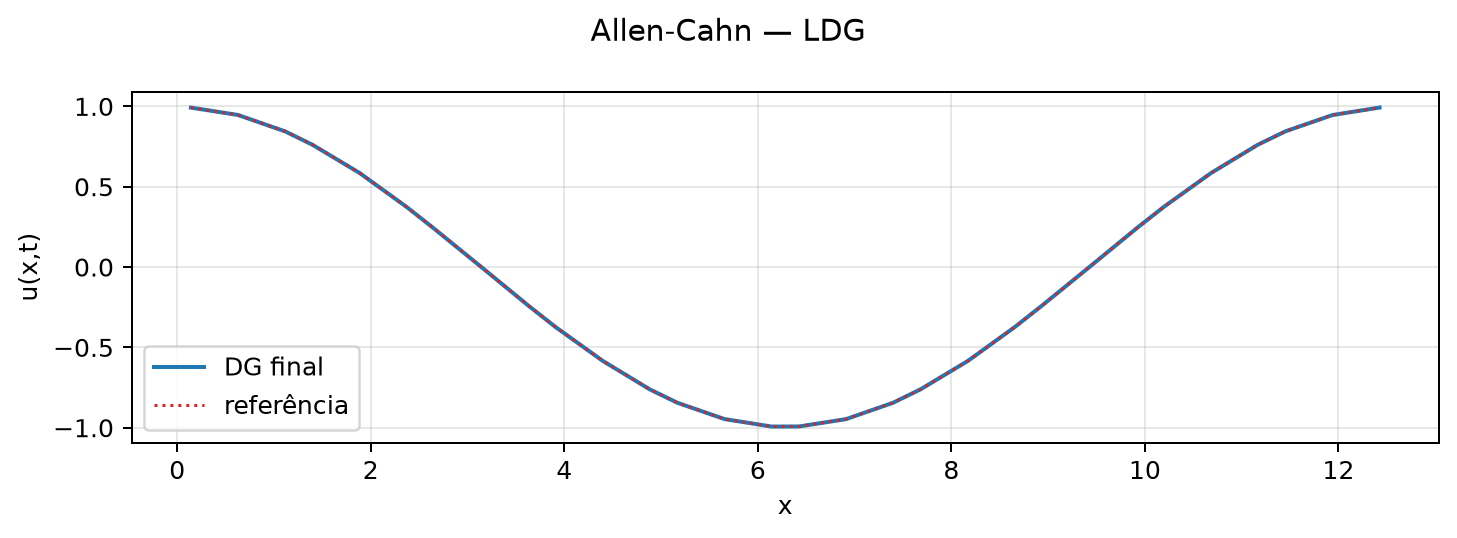
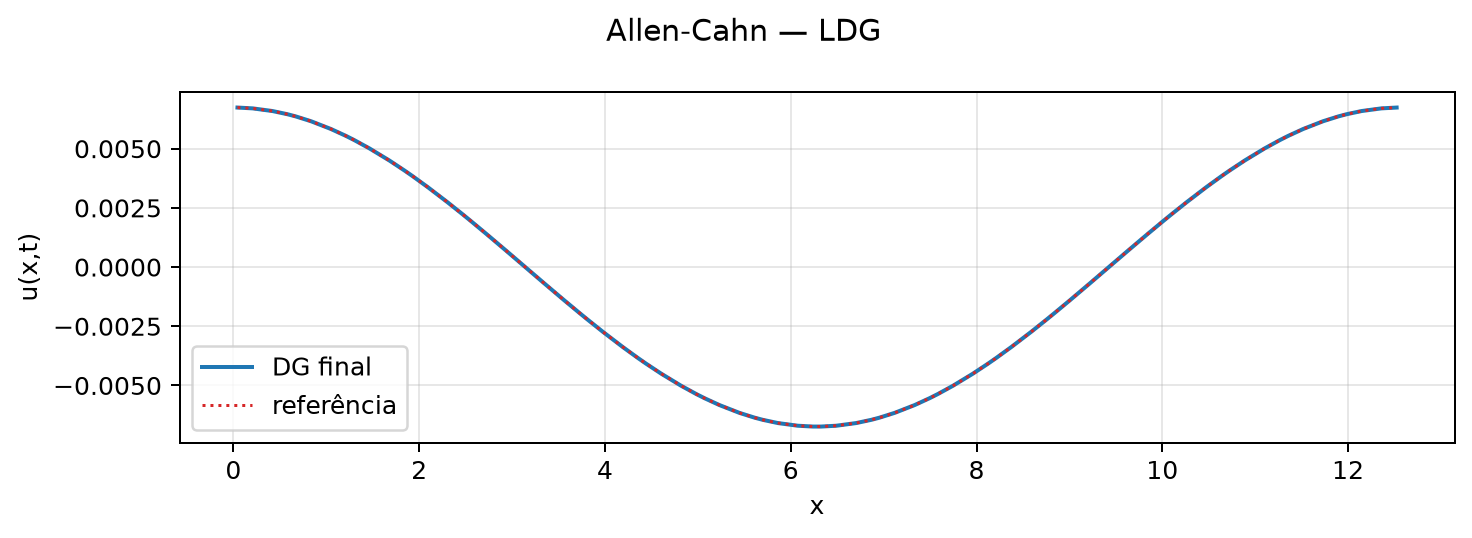
Add allen_cahn e cahn_hillard

diff --git a/examples/alberto_replicas/cahn_hilliard/run.py b/examples/alberto_replicas/cahn_hilliard/run.py
@@ -1,9 +1,8 @@
-"""Cahn--Hilliard replica with the split LDG operator used in the toolkit."""
+"""Two-field Cahn--Hilliard test following Alberto's active DG script."""
 
 from __future__ import annotations
 
 import argparse
-import math
 import sys
 from pathlib import Path
 
@@ -14,13 +13,11 @@ if str(ROOT) not in sys.path:
     sys.path.insert(0, str(ROOT))
 
 from dg1d_toolkit.dg1d_core import DGSpace1D
-from dg1d_toolkit.dg1d_subcell import diffusion_rhs
 from examples.alberto_replicas.common import (
     StateHistory,
     add_runtime_options,
     apply_runtime_overrides,
     integrate,
-    padded,
     plot_evolution,
     plot_profiles,
     print_summary,
@@ -29,16 +26,57 @@ from examples.alberto_replicas.common import (
 )
 
 
+def _padded_source_state(space, modal):
+    """Use Alberto's one-sided Neumann ghost convention."""
+    padded = np.zeros((space.Nldof, space.K + 2), dtype=float)
+    padded[:, 1:-1] = modal
+    right_trace = np.dot(space.Frk[0, :], modal[:, -1])
+    padded[0, -1] = right_trace
+    return padded
+
+
+def _find_initial_file(name, explicit):
+    """Use an explicit path or find Alberto's file in common locations."""
+    if explicit is not None:
+        return explicit
+    candidates = (
+        Path.cwd() / name,
+        Path(__file__).resolve().parent / name,
+    )
+    return next((candidate for candidate in candidates if candidate.exists()), None)
+
+
+def _load_or_build_initial(space, path, fallback):
+    """Load one of Alberto's IC files or use a reproducible fallback."""
+    if path is not None:
+        raw = np.asarray(np.load(path), dtype=float)
+        if raw.size != space.K * space.nip:
+            raise ValueError(
+                f"{path} deve conter {space.K * space.nip} valores "
+                f"(K={space.K}, nip={space.nip})."
+            )
+        physical = raw.reshape(space.K, space.nip).T
+    else:
+        physical = fallback(space.xc)
+    return project(space, physical)
+
+
 def main(argv=None):
     parser = argparse.ArgumentParser(description=__doc__)
-    parser.add_argument("--diffusion", choices=("ldg", "br2"), default="ldg")
+    parser.add_argument(
+        "--diffusion", choices=("ldg",), default="ldg",
+        help="o script ativo do Alberto usa a formulação LDG acoplada",
+    )
+    parser.add_argument("--initial-u", type=Path, default=None,
+                        help="arquivo icr_u.npy do caso original")
+    parser.add_argument("--initial-v", type=Path, default=None,
+                        help="arquivo icr_v.npy do caso original")
     parser.add_argument("--quick", action="store_true", help="malha e tempo curtos")
     parser.add_argument("--output", type=Path, default=None)
     add_runtime_options(parser)
     args = parser.parse_args(argv)
 
-    # Alberto's executed loop uses Nsteps=99000 and dt=2.2e-6, hence
-    # t_final=0.2178; tb=[0,0.05] is not the actual loop duration.
+    # Effective production loop in Cahn-Hilliard-1D-Modal-DG.py.
     K, N, t_end, dt, source_steps = (
         (10, 1, 5.0e-4, 1.0e-4, 5)
         if args.quick else (40, 1, 99000 * 2.2e-6, 2.2e-6, 99000)
@@ -46,58 +84,163 @@ def main(argv=None):
     K, N, t_end, dt, steps = apply_runtime_overrides(
         args, K, N, t_end, dt, source_steps
     )
-    gamma = (0.1**2) / 6.0
-    mobility = 1.0
-    space = DGSpace1D(K, N, 0.0, 1.0, quad_type="GL", P=2 * N, nlP=4 * N)
-    # Deterministic analogue of Alberto's fluctuating IC; it avoids the
-    # external icr_u.npy dependency while retaining the phase-field character.
-    phi0 = 0.5 + 0.05 * np.cos(2.0 * math.pi * space.xc) + 0.005 * np.sin(6.0 * math.pi * space.xc)
-    initial = project(space, phi0)
-    unit = np.ones((space.nip, space.K + 2))
-    faces = np.ones((2, space.K + 2))
 
-    def laplace(field):
-        if args.diffusion == "ldg":
-            return diffusion_rhs(space, padded(space, field, periodic=True), unit, faces,
-                                 method="ldg", periodic=True)
-        return diffusion_rhs(space, padded(space, field, periodic=True), method="br2",
-                             coefficient=1.0, eta=2.0, periodic=True)
+    # Parameters of Alberto's active fluctuating Cahn--Hilliard case.
+    theta = 0.1
+    alpha_fe = 3.0
+    beta_fe = -1.0
+    epsilon = 0.1
+    gamma = (1.0 / 6.0) * epsilon**2
+    rho = 0.08
+    space = DGSpace1D(K, N, 0.0, 1.0, quad_type="GL", P=2 * N, nlP=4 * N)
+
+    initial_u_path = _find_initial_file("icr_u.npy", args.initial_u)
+    initial_v_path = _find_initial_file("icr_v.npy", args.initial_v)
+    u_initial = _load_or_build_initial(
+        space, initial_u_path,
+        lambda x: 0.55 - np.exp(-3.0) * np.sin(6.0 * np.pi * x),
+    )
+    v_initial = _load_or_build_initial(
+        space, initial_v_path,
+        lambda x: np.zeros_like(x),
+    )
 
     def rhs(states, time):
         del time
-        phi = states[0]
-        phi_h = np.dot(space.nlpsi, phi)
-        free_energy = project(space, phi_h**3 - phi_h)
-        chemical_potential = free_energy - gamma * laplace(phi)
-        return [mobility * laplace(chemical_potential)]
+        u_modal, v_modal = states
+        u_pad = _padded_source_state(space, u_modal)
+        v_pad = _padded_source_state(space, v_modal)
+
+        # Free-energy derivatives at the over-integration points.
+        u_h = np.dot(space.nlpsi, u_modal)
+        v_h = np.dot(space.nlpsi, v_modal)
+        plus = (u_h + v_h) / (1.0 - u_h - v_h)
+        minus = (u_h - v_h) / (1.0 - u_h + v_h)
+        if np.any(plus <= 0.0) or np.any(minus <= 0.0):
+            raise FloatingPointError(
+                "o estado saiu do domínio logarítmico da energia livre; "
+                "reduza dt ou verifique a condição inicial."
+            )
+        du_phi = theta * (np.log(plus) + np.log(minus))
+        dv_phi = theta * (np.log(plus) - np.log(minus))
+        du_psi = du_phi + 0.5 * alpha_fe * (1.0 - 2.0 * u_h)
+        dv_psi = dv_phi - beta_fe * v_h
+        r1 = project(space, du_psi)
+        r2 = project(space, dv_psi)
+
+        # Neumann condition for the chemical-potential component r1.
+        r1_pad = np.zeros_like(u_pad)
+        r2_pad = np.zeros_like(v_pad)
+        r1_pad[:, 1:-1] = r1
+        r2_pad[:, 1:-1] = r2
+        r1_pad[0, -1] = np.dot(space.Frk[0, :], r1[:, -1])
+
+        # First LDG gradients w1=du/dx and w2=dv/dx.
+        w1 = np.zeros_like(u_pad)
+        w2 = np.zeros_like(v_pad)
+        w1[:, 1:-1] = space.InvM[:, None] * space.J[None, :] ** (-1) * (
+            -np.dot(space.S.T, u_pad[:, 1:-1])
+            + np.dot(space.Flkp1, u_pad[:, 2:])
+            - np.dot(space.Flk, u_pad[:, 1:-1])
+        )
+        w2[:, 1:-1] = space.InvM[:, None] * space.J[None, :] ** (-1) * (
+            -np.dot(space.S.T, v_pad[:, 1:-1])
+            + np.dot(space.Flkp1, v_pad[:, 2:])
+            - np.dot(space.Flk, v_pad[:, 1:-1])
+        )
+
+        # q1=gamma*d2u/dx2 and q2=gamma*d2v/dx2.
+        q1 = np.zeros_like(u_pad)
+        q2 = np.zeros_like(v_pad)
+        q1[:, 1:-1] = space.InvM[:, None] * space.J[None, :] ** (-1) * gamma * (
+            -np.dot(space.S.T, w1[:, 1:-1])
+            + np.dot(space.Frk, w1[:, 1:-1])
+            - np.dot(space.Frkm1, w1[:, :-2])
+        )
+        q2[:, 1:-1] = space.InvM[:, None] * space.J[None, :] ** (-1) * gamma * (
+            -np.dot(space.S.T, w2[:, 1:-1])
+            + np.dot(space.Frk, w2[:, 1:-1])
+            - np.dot(space.Frkm1, w2[:, :-2])
+        )
+
+        q1_right = space.InvM * (space.J[-1] ** -1) * gamma * (
+            -np.dot(space.S.T, w1[:, -1])
+            + np.dot(space.Frk, w1[:, -1])
+            - np.dot(space.Frkm1, w1[:, -2])
+        )
+        q1[0, -1] = np.dot(space.Frk[0, :], q1_right)
+
+        # phat = d/dx(q1-r1), assembled with Alberto's LDG signs.
+        phat = np.zeros_like(u_pad)
+        phat[:, 1:-1] = space.InvM[:, None] * space.J[None, :] ** (-1) * (
+            np.dot(space.S.T, q1[:, 1:-1])
+            - np.dot(space.S.T, r1_pad[:, 1:-1])
+            - np.dot(space.Flkp1, q1[:, 2:])
+            + np.dot(space.Flk, q1[:, 1:-1])
+            + np.dot(space.Flkp1, r1_pad[:, 2:])
+            - np.dot(space.Flk, r1_pad[:, 1:-1])
+        )
+
+        # Variable mobility b(u,v)=u(1-u)(1/4-v^2).
+        ph_h = np.dot(space.nlpsi, phat[:, 1:-1])
+        r2_h = np.dot(space.nlpsi, r2_pad[:, 1:-1])
+        q2_h = np.dot(space.nlpsi, q2[:, 1:-1])
+        mobility = u_h * (1.0 - u_h) * (0.25 - v_h**2)
+        s1 = project(space, mobility * ph_h)
+        s2 = project(space, -mobility * (-q2_h + r2_h) / rho)
+
+        # v_t = s2 and u_t = d/dx(s1).
+        s1_pad = np.zeros_like(u_pad)
+        s1_pad[:, 1:-1] = s1
+        du_dt = space.InvM[:, None] * space.J[None, :] ** (-1) * (
+            -np.dot(space.S.T, s1)
+            + np.dot(space.Frk, s1)
+            - np.dot(space.Frkm1, s1_pad[:, :-2])
+        )
+        dv_dt = s2
+        return [du_dt, dv_dt]
 
     history = StateHistory(space, args.history_every) if args.history_every else None
     state, t, steps = integrate(
-        [initial], rhs, t_end=t_end, dt=dt, method="rk4",
+        [u_initial, v_initial], rhs, t_end=t_end, dt=dt, method="rk54",
         diagnostics=history, progress_every=args.print_every,
         progress_name="Cahn-Hilliard", nsteps=steps,
     )
     if history is not None:
         history.finalize(state, t, steps)
-    phi = np.dot(space.psi, state[0])
-    mass0 = float(np.sum(space.J[None, :] * space.wi[:, None] * np.dot(space.psi, initial)))
-    mass = float(np.sum(space.J[None, :] * space.wi[:, None] * phi))
-    output = args.output or Path(__file__).resolve().parent / "results" / f"cahn_hilliard_{args.diffusion}.npz"
-    save_result(output, space, state, time=t, mass_initial=mass0, mass_final=mass,
-                diffusion=args.diffusion)
+
+    u_final = np.dot(space.psi, state[0])
+    u0 = np.dot(space.psi, u_initial)
+    mass_u0 = float(np.sum(space.J[None, :] * space.wi[:, None] * u0))
+    mass_uf = float(np.sum(space.J[None, :] * space.wi[:, None] * u_final))
+    output = args.output or Path(__file__).resolve().parent / "results" / "cahn_hilliard_ldg.npz"
+    save_result(
+        output, space, state, time=t,
+        mass_u_initial=mass_u0, mass_u_final=mass_uf,
+        theta=theta, alpha_fe=alpha_fe, beta_fe=beta_fe,
+        gamma=gamma, rho=rho,
+        initial_u_file=str(initial_u_path or "fallback"),
+        initial_v_file=str(initial_v_path or "fallback"),
+    )
     figure = output.with_suffix(".png")
     if not args.no_plot:
-        plot_profiles(figure, space, state, ["phi"], f"Cahn-Hilliard — {args.diffusion.upper()}",
-                      initial_state=[initial], ylabels=["phi(x,t)"])
+        plot_profiles(
+            figure, space, state, ["u", "v"], "Cahn-Hilliard — LDG",
+            initial_state=[u_initial, v_initial], ylabels=["u(x,t)", "v(x,t)"],
+        )
         if history is not None and len(history.times) > 1:
             plot_evolution(
                 figure.with_name(figure.stem + "_evolution.png"),
                 space.xc.T.reshape(-1), history.times,
-                history.physical_arrays(), ["phi(x,t)"],
-                f"Cahn-Hilliard — evolução temporal ({args.diffusion.upper()})",
+                history.physical_arrays(), ["u(x,t)", "v(x,t)"],
+                "Cahn-Hilliard — evolução temporal (LDG)",
             )
-    print_summary(f"Cahn-Hilliard ({args.diffusion})", space, state, t, steps)
-    print(f"  massa_inicial={mass0:.8e}; massa_final={mass:.8e}; resultado={output}; figura={figure if not args.no_plot else 'desativada'}")
+    print_summary("Cahn-Hilliard (LDG)", space, state, t, steps)
+    print(
+        f"  formulação=dois campos + energia livre logarítmica + mobilidade variável; "
+        f"massa_u=[{mass_u0:.8e},{mass_uf:.8e}]; resultado={output}; "
+        f"figura={figure if not args.no_plot else 'desativada'}"
+    )
 
 
 if __name__ == "__main__":
